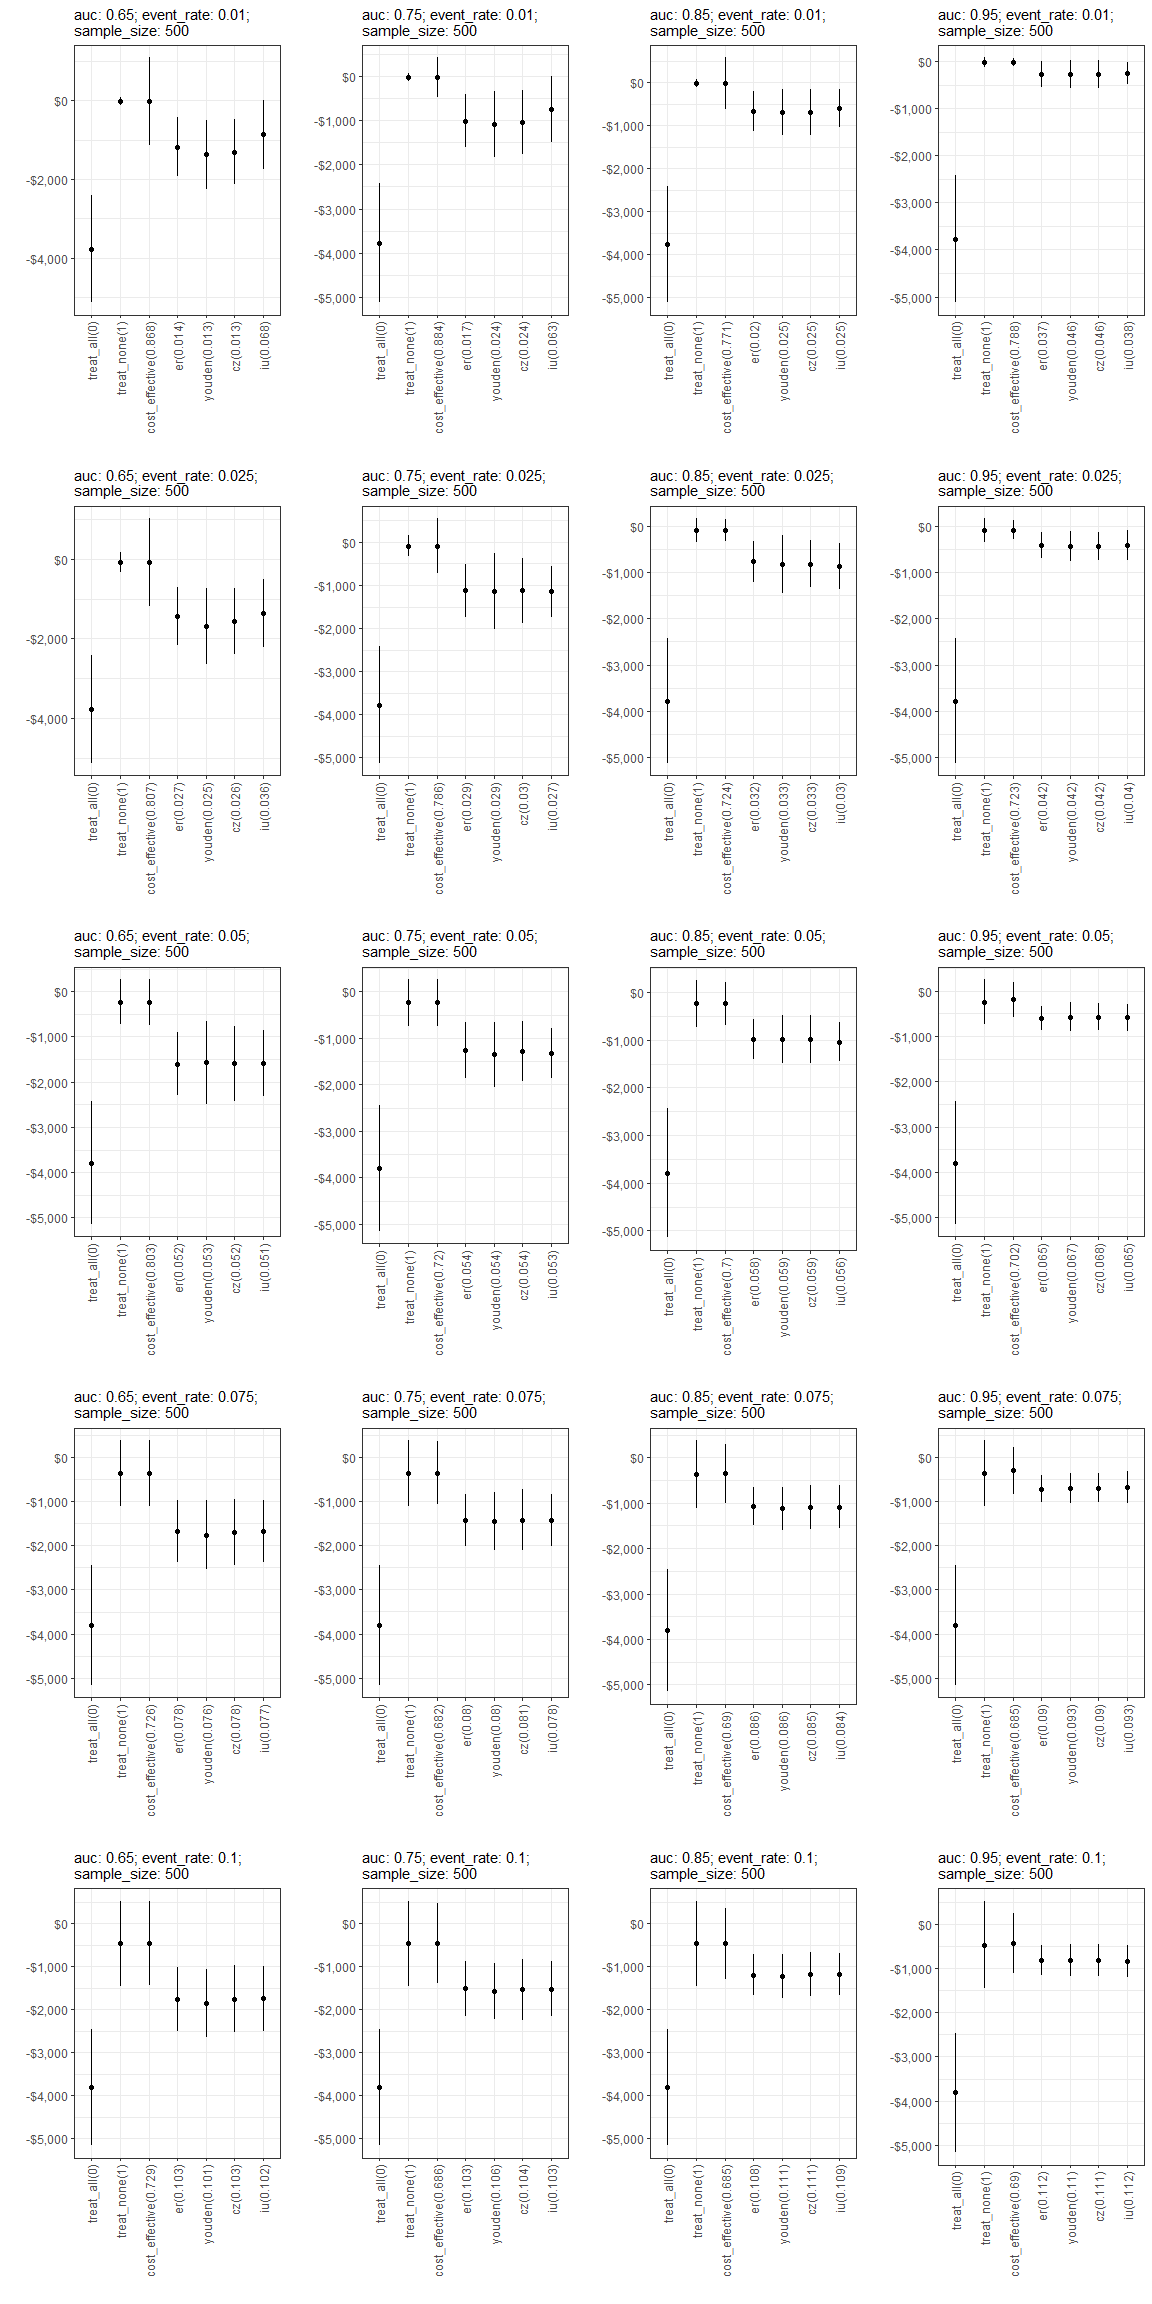
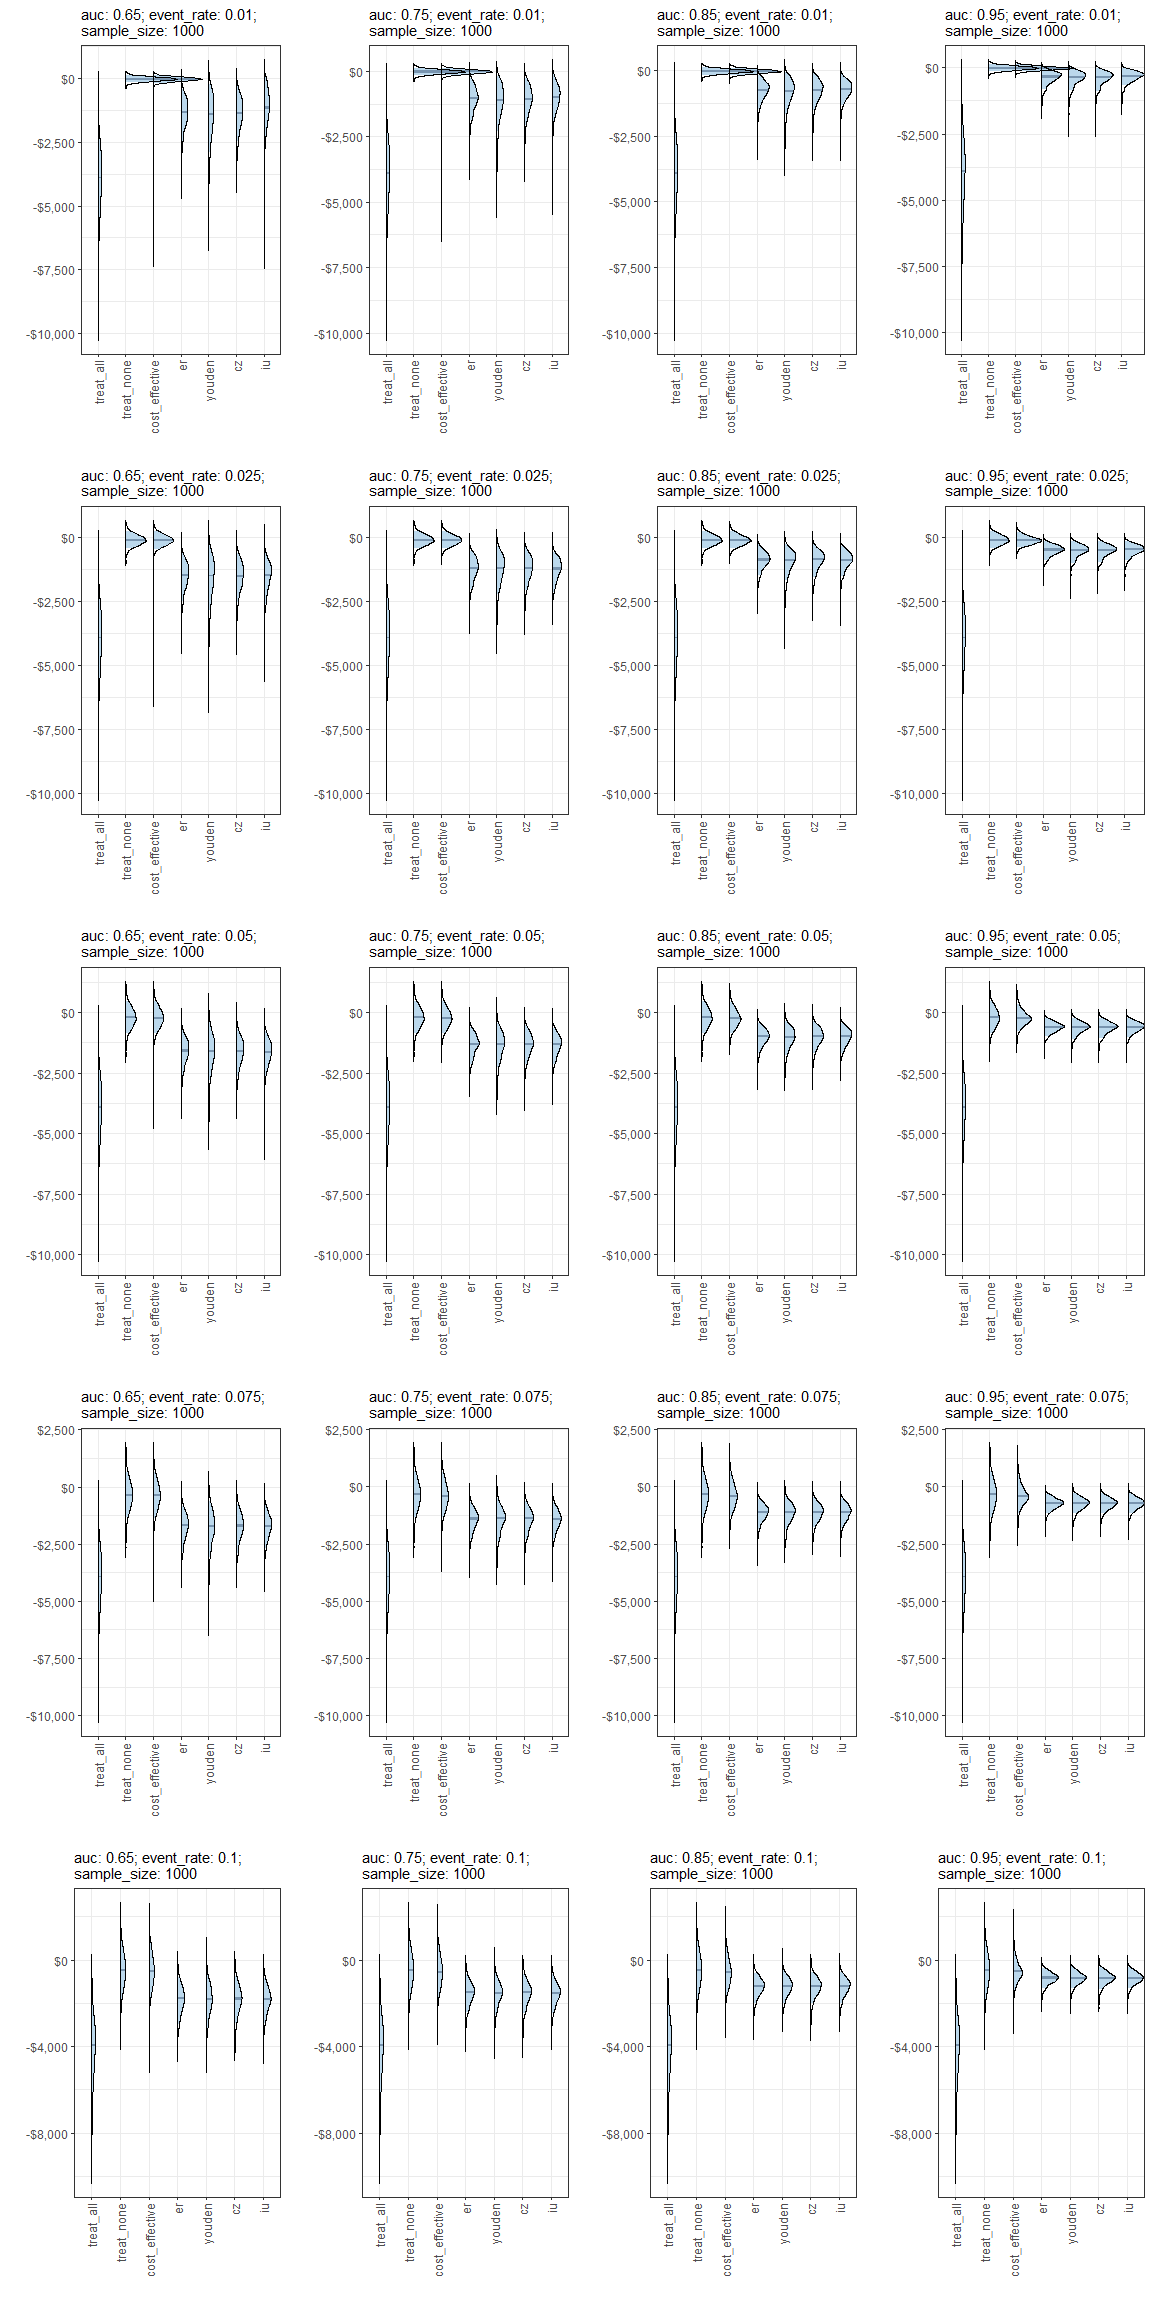
incorporate density plots into do_simulation

diff --git a/experiment_1.md b/experiment_1.md
@@ -130,9 +130,61 @@ get_nmb_ICU()
 do_simulation <- function(sample_size, n_sims, n_valid, sim_auc, event_rate, 
                           fx_costs, resample_values=TRUE, 
                           get_what=c("data", "plot"), plot_type="boxplot",
+                          scale=60,
                           seed=42){
   if(!is.null(seed)) set.seed(seed)
-  
+  plot_density_ridge = function(data, FUN=c("eti", "hdi"), ci=0.9, factor_levels=NULL, limit_y=FALSE, ...) {
+    # taken from:
+    # https://stackoverflow.com/questions/65269825/is-it-possible-to-recreate-the-functionality-of-bayesplots-mcmc-areas-plot-in
+    
+    # Determine whether to use eti or hdi function
+    FUN = match.arg(FUN)
+    FUN = match.fun(FUN)
+    
+    # Get kernel density estimate as a data frame
+    dens = map_df(data, ~ {
+      d = density(.x, na.rm=TRUE)
+      tibble(x=d$x, y=d$y)
+    }, .id="name")
+    
+    # Set relative width of median line
+    e = diff(range(dens$x)) * 0.004
+    
+    # Get credible interval width and median
+    cred.int = data %>% 
+      pivot_longer(cols=everything()) %>% 
+      group_by(name) %>% 
+      summarise(CI=list(FUN(value, ci=ci)),
+                m=median(value, na.rm=TRUE)) %>% 
+      unnest_wider(CI)
+    
+    p_data <- left_join(dens, cred.int)
+    
+    if(!is.null(factor_levels)) {
+      p_data$name <- factor(p_data$name, levels=factor_levels)
+    }
+    
+    p <- 
+      p_data %>% 
+      ggplot(aes(y=name, x=x, height=y)) +
+      geom_ridgeline(data= . %>% group_by(name) %>%
+                       filter(between(x, CI_low, CI_high)),
+                     fill=hcl(230,25,85), ...) +
+      geom_ridgeline(data=. %>% group_by(name) %>% 
+                       filter(between(x, m - e, m + e)),
+                     fill=hcl(240,30,60), ...) +
+      geom_ridgeline(fill=NA, ...) + 
+      geom_ridgeline(fill=NA, aes(height=0), ...) +
+      labs(y=NULL, x=NULL) +
+      theme_bw() +
+      coord_flip()
+    
+    if(limit_y){
+      p <- p + 
+        scale_x_continuous(limits=c(0,1))
+    }
+    p
+  }
   i <- 0
   while(i < n_sims){
     train_sample <- get_sample(auc=sim_auc, n_samples=sample_size, prevalence=event_rate)
@@ -209,7 +261,7 @@ do_simulation <- function(sample_size, n_sims, n_valid, sim_auc, event_rate,
       ) +
       scale_y_continuous(labels=scales::dollar_format()) +
       theme(axis.text.x = element_text(angle = 90, vjust = 0.5, hjust=1))
-  }else{
+  }else if(plot_type=="point"){
     get_medians <- function(x, nboot=500){
       m <- median(x)
       
@@ -246,6 +298,15 @@ do_simulation <- function(sample_size, n_sims, n_valid, sim_auc, event_rate,
       ) +
       scale_y_continuous(labels=scales::dollar_format()) +
       theme(axis.text.x = element_text(angle = 90, vjust = 0.5, hjust=1))
+  } else if(plot_type=="density") {
+    p <- plot_density_ridge(select(df_result, -n_sim), FUN='hdi', scale=scale, factor_levels = names(select(df_result, -n_sim))) +
+      theme_bw() +
+      labs(
+        y="", x="",
+        subtitle=sub
+      ) +
+      scale_x_continuous(labels=scales::dollar_format()) +
+      theme(axis.text.x = element_text(angle = 90, vjust = 0.5, hjust=1))
   }
   
   if(length(get_what)==1){
@@ -257,8 +318,9 @@ do_simulation <- function(sample_size, n_sims, n_valid, sim_auc, event_rate,
 }
 
 # test_run <- do_simulation(
-#   sample_size=100, n_sims=200, n_valid=5000, sim_auc=0.9, event_rate=0.025,
-#   fx_costs=get_nmb, resample_values=TRUE, get_what=c("data", "plot"), plot_type = "point"
+#   sample_size=100, n_sims=200, n_valid=1000, sim_auc=0.8, event_rate=0.025,
+#   fx_costs=get_nmb, resample_values=TRUE, get_what=c("data", "plot"), plot_type = "density",
+#   scale=60
 # )
 # test_run
 ```
@@ -281,7 +343,6 @@ cl <- parallelly::autoStopCluster(cl)
 
 g <- expand.grid(
   sim_auc=c(0.65, 0.75, 0.85, 0.95),
-  # event_rate=c(0.01, 0.03, 0.1, 0.3, 0.7, 0.9)
   event_rate=c(0.01, 0.025, 0.05, 0.075, 0.1)
 )
 
@@ -292,6 +353,8 @@ clusterExport(cl, {
 invisible(clusterEvalQ(cl, {
   library(tidyverse)
   library(data.table)
+  library(ggridges)
+  library(bayestestR)
   library(cutpointr)
   source("src/utils.R")
   source("src/cutpoint_methods.R")
@@ -302,10 +365,10 @@ ll1 <- parallel::parLapply(
   cl,
   1:nrow(g),
   function(i) do_simulation(
-    sample_size=500, n_sims=100, n_valid=1000,
+    sample_size=1000, n_sims=1000, n_valid=5000,
     sim_auc=g$sim_auc[i], event_rate=g$event_rate[i],
     fx_costs=get_nmb, get_what="plot", resample_values=TRUE,
-    plot_type="point"
+    plot_type="density", scale=60
   )
 )
 
@@ -313,10 +376,10 @@ ll2 <- parallel::parLapply(
   cl,
   1:nrow(g),
   function(i) do_simulation(
-    sample_size=500, n_sims=100, n_valid=1000,
+    sample_size=1000, n_sims=1000, n_valid=5000,
     sim_auc=g$sim_auc[i], event_rate=g$event_rate[i],
-    fx_costs=get_nmb_ICU, get_what="plot", resample_values=FALSE,
-    plot_type="point"
+    fx_costs=get_nmb_ICU, get_what="plot", resample_values=TRUE,
+    plot_type="density", scale=400
   )
 )
 
@@ -339,7 +402,6 @@ cl <- parallelly::autoStopCluster(cl)
 
 g2 <- expand.grid(
   sim_auc=c(0.65, 0.75, 0.85, 0.95),
-  # event_rate=c(0.01, 0.03, 0.1, 0.3, 0.7, 0.9)
   train_size=c(100, 300, 1000, 3000, 10000)
 )
 
@@ -350,6 +412,8 @@ clusterExport(cl, {
 invisible(clusterEvalQ(cl, {
   library(tidyverse)
   library(data.table)
+  library(ggridges)
+  library(bayestestR)
   library(cutpointr)
   source("src/utils.R")
   source("src/cutpoint_methods.R")
@@ -359,10 +423,10 @@ ll3 <- parallel::parLapply(
   cl,
   1:nrow(g2),
   function(i) do_simulation(
-    sample_size=g2$train_size[i], n_sims=100, n_valid=1000,
+    sample_size=g2$train_size[i], n_sims=1000, n_valid=5000,
     sim_auc=g2$sim_auc[i], event_rate=0.025,
-    fx_costs=get_nmb, get_what="plot", resample_values=FALSE,
-    plot_type="boxplot"
+    fx_costs=get_nmb, get_what="plot", resample_values=TRUE,
+    plot_type="density"
   )
 )
 
@@ -387,7 +451,7 @@ test_run2 <- do_simulation(
 )
 
 
-plot_density_ridge = function(data, FUN=c("eti", "hdi"), ci=0.89, limit_y=FALSE, ...) {
+plot_density_ridge = function(data, FUN=c("eti", "hdi"), ci=0.89, factor_levels=NULL, limit_y=FALSE, ...) {
   # taken from:
   # https://stackoverflow.com/questions/65269825/is-it-possible-to-recreate-the-functionality-of-bayesplots-mcmc-areas-plot-in
   
@@ -412,9 +476,14 @@ plot_density_ridge = function(data, FUN=c("eti", "hdi"), ci=0.89, limit_y=FALSE,
               m=median(value, na.rm=TRUE)) %>% 
     unnest_wider(CI)
   
+  plot_data <- left_join(dens, cred.int)
+  
+  if(!is.null(factor_levels)) {
+    plot_data$name <- factor(plot_data$name, levels=factor_levels)
+  }
+  
   p <- 
-    dens %>% 
-    left_join(cred.int) %>% 
+    plot_data %>% 
     ggplot(aes(y=name, x=x, height=y)) +
     geom_ridgeline(data= . %>% group_by(name) %>%
                      filter(between(x, CI_low, CI_high)),
@@ -483,7 +552,7 @@ cowplot::plot_grid(title,plot_row, ncol=1, rel_heights = c(0.1, 1))
 ![](experiment_1_files/figure-gfm/unnamed-chunk-6-2.png)<!-- -->
 
 ``` r
-# plot_density_ridge(select(test_run$df_result, -n_sim), FUN='hdi', scale=60)
+# plot_density_ridge(select(test_run$df_result, -n_sim), FUN='hdi', scale=60, factor_levels = names(test_run$df_result)[-1])
 # plot_density_ridge(select(test_run$df_thresholds, -n_sim, -treat_all, -treat_none), FUN='hdi', scale=0.02) 
 ```
 
